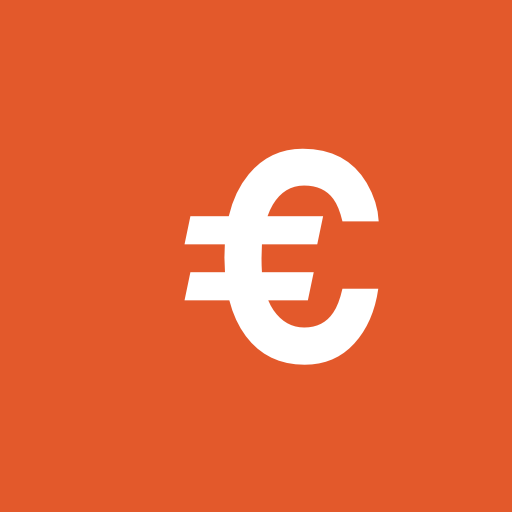
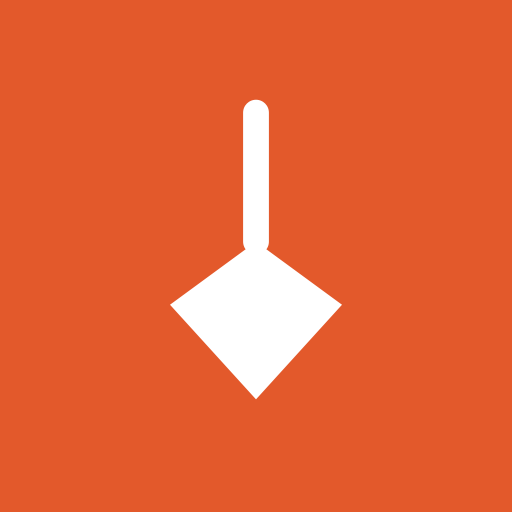
Renombrar el producto a Plomada
Presu ya existe: presu.app es un producto igual que este, para el mismo
publico y en el mismo pais. Se propuso ese nombre sin comprobarlo.

Se renombra ahora porque es el momento mas barato: no hay nada indexado, no
hay clientes, no se ha comprado dominio y la cuenta de Stripe ya se llamaba
PLOMADA. Comprobado que no hay nadie usando el nombre en este sector.

Lo que NO se ha renombrado, a proposito:

- Las claves de localStorage (presu.documentos.v2 y demas) y el marcador
  formato: "presu" de las copias de seguridad. Cambiarlas dejaria sin
  presupuestos a quien ya use la web y haria ilegibles las copias exportadas.
  El nombre de un producto cambia; los datos de la gente no se tiran por eso.
- El repositorio y la carpeta, que son cosmeticos y romperian el enlace con
  Netlify.

Ademas:

- El simbolo del euro pasa a ser una plomada, que es lo que ahora significa la
  marca. Regenerados favicon, iconos e imagen de compartir.
- La marca de agua del PDF calcula su tamano y su posicion: con el nombre
  nuevo, mas largo, se salia de la hoja por los dos lados. jsPDF no centra
  bien un texto girado, asi que el punto de inicio se calcula a mano.
- Fuera el sufijo del descriptor de extracto: la cuenta de Stripe ya se llama
  PLOMADA y el cliente veria "PLOMADA* PLOMADA".

Changed region(s): [[0.3125, 0.1875, 0.75, 0.7812]]

diff --git a/src/oficios.ts b/src/oficios.ts
@@ -55,7 +55,7 @@ export const OFICIOS: Oficio[] = [
     nombre: "Reformas",
     profesional: "reformista",
     emoji: "🧱",
-    titulo: "Modelo de presupuesto de reforma en PDF | Presu",
+    titulo: "Modelo de presupuesto de reforma en PDF | Plomada",
     descripcion:
       "Haz un presupuesto de reforma con partidas, medición, IVA desglosado y firma de aceptación. Se rellena en dos minutos y se descarga en PDF.",
     h1: "Presupuesto de reforma",
@@ -96,7 +96,7 @@ export const OFICIOS: Oficio[] = [
       {
         pregunta: "¿Debe firmar el cliente el presupuesto?",
         respuesta:
-          "No es obligatorio, pero un presupuesto aceptado por escrito es la mejor prueba de lo acordado si algo se discute después. Todos los presupuestos que genera Presu llevan un bloque de firma y fecha al final.",
+          "No es obligatorio, pero un presupuesto aceptado por escrito es la mejor prueba de lo acordado si algo se discute después. Todos los presupuestos que genera Plomada llevan un bloque de firma y fecha al final.",
       },
       {
         pregunta: "¿Puedo cobrar por hacer el presupuesto?",
@@ -167,7 +167,7 @@ export const OFICIOS: Oficio[] = [
     nombre: "Fontanería",
     profesional: "fontanero",
     emoji: "🔧",
-    titulo: "Presupuesto de fontanería en PDF, gratis | Presu",
+    titulo: "Presupuesto de fontanería en PDF, gratis | Plomada",
     descripcion:
       "Modelo de presupuesto de fontanería con mano de obra, materiales y desplazamiento. Rellénalo y descárgalo en PDF con tu logo.",
     h1: "Presupuesto de fontanería",
@@ -261,7 +261,7 @@ export const OFICIOS: Oficio[] = [
     nombre: "Electricidad",
     profesional: "electricista",
     emoji: "⚡",
-    titulo: "Presupuesto de electricista en PDF | Presu",
+    titulo: "Presupuesto de electricista en PDF | Plomada",
     descripcion:
       "Modelo de presupuesto para instalaciones eléctricas: puntos de luz, cuadro, mano de obra y boletín. Descarga en PDF con tu logo.",
     h1: "Presupuesto de electricista",
@@ -356,7 +356,7 @@ export const OFICIOS: Oficio[] = [
     nombre: "Pintura",
     profesional: "pintor",
     emoji: "🎨",
-    titulo: "Presupuesto de pintura por m² en PDF | Presu",
+    titulo: "Presupuesto de pintura por m² en PDF | Plomada",
     descripcion:
       "Modelo de presupuesto de pintura con metros cuadrados, manos de pintura, preparación y protección. Descárgalo en PDF.",
     h1: "Presupuesto de pintura",
@@ -450,7 +450,7 @@ export const OFICIOS: Oficio[] = [
     nombre: "Jardinería",
     profesional: "jardinero",
     emoji: "🌿",
-    titulo: "Presupuesto de jardinería en PDF | Presu",
+    titulo: "Presupuesto de jardinería en PDF | Plomada",
     descripcion:
       "Modelo de presupuesto de jardinería para podas, mantenimiento y diseño de jardín, con opción de cuota mensual. Descarga en PDF.",
     h1: "Presupuesto de jardinería",
@@ -545,7 +545,7 @@ export const OFICIOS: Oficio[] = [
     nombre: "Carpintería",
     profesional: "carpintero",
     emoji: "🪵",
-    titulo: "Presupuesto de carpintería a medida en PDF | Presu",
+    titulo: "Presupuesto de carpintería a medida en PDF | Plomada",
     descripcion:
       "Modelo de presupuesto de carpintería y muebles a medida con materiales, herrajes, montaje y anticipo. Descarga en PDF.",
     h1: "Presupuesto de carpintería",
@@ -640,7 +640,7 @@ export const OFICIOS: Oficio[] = [
     nombre: "Albañilería",
     profesional: "albañil",
     emoji: "🧱",
-    titulo: "Presupuesto de albañilería en PDF | Presu",
+    titulo: "Presupuesto de albañilería en PDF | Plomada",
     descripcion:
       "Modelo de presupuesto de albañilería con mediciones, material, andamios y retirada de escombro. Descárgalo en PDF con tu logo.",
     h1: "Presupuesto de albañilería",
@@ -736,7 +736,7 @@ export const OFICIOS: Oficio[] = [
     nombre: "Climatización",
     profesional: "instalador",
     emoji: "❄",
-    titulo: "Presupuesto de aire acondicionado en PDF | Presu",
+    titulo: "Presupuesto de aire acondicionado en PDF | Plomada",
     descripcion:
       "Modelo de presupuesto de climatización: equipo, instalación, material frigorífico y puesta en marcha. Descárgalo en PDF.",
     h1: "Presupuesto de climatización",
@@ -831,7 +831,7 @@ export const OFICIOS: Oficio[] = [
     nombre: "Cerrajería",
     profesional: "cerrajero",
     emoji: "🔐",
-    titulo: "Presupuesto de cerrajería en PDF | Presu",
+    titulo: "Presupuesto de cerrajería en PDF | Plomada",
     descripcion:
       "Modelo de presupuesto de cerrajería para puertas, rejas y cierres, con material, mano de obra y desplazamiento. Descárgalo en PDF.",
     h1: "Presupuesto de cerrajería",
@@ -927,7 +927,7 @@ export const OFICIOS: Oficio[] = [
     nombre: "Mudanzas",
     profesional: "transportista",
     emoji: "📦",
-    titulo: "Presupuesto de mudanza en PDF | Presu",
+    titulo: "Presupuesto de mudanza en PDF | Plomada",
     descripcion:
       "Modelo de presupuesto de mudanza con embalaje, portes, mano de obra y seguro. Rellénalo y descárgalo en PDF.",
     h1: "Presupuesto de mudanza",
@@ -1022,7 +1022,7 @@ export const OFICIOS: Oficio[] = [
     nombre: "Limpieza",
     profesional: "profesional de la limpieza",
     emoji: "🧽",
-    titulo: "Presupuesto de limpieza en PDF | Presu",
+    titulo: "Presupuesto de limpieza en PDF | Plomada",
     descripcion:
       "Modelo de presupuesto de limpieza para fin de obra, comunidades y oficinas, con cuota mensual o servicio puntual. Descárgalo en PDF.",
     h1: "Presupuesto de limpieza",
@@ -1117,7 +1117,7 @@ export const OFICIOS: Oficio[] = [
     nombre: "Fotografía",
     profesional: "fotógrafo",
     emoji: "📷",
-    titulo: "Presupuesto de fotografía en PDF | Presu",
+    titulo: "Presupuesto de fotografía en PDF | Plomada",
     descripcion:
       "Modelo de presupuesto para fotógrafos: sesión, edición, entrega y cesión de derechos, con retención de IRPF. Descarga en PDF.",
     h1: "Presupuesto de fotografía",
@@ -1212,7 +1212,7 @@ export const OFICIOS: Oficio[] = [
     nombre: "Diseño web",
     profesional: "diseñador",
     emoji: "💻",
-    titulo: "Presupuesto de diseño web en PDF | Presu",
+    titulo: "Presupuesto de diseño web en PDF | Plomada",
     descripcion:
       "Modelo de presupuesto de diseño y desarrollo web con fases, rondas de revisión, mantenimiento y retención de IRPF. Descarga en PDF.",
     h1: "Presupuesto de diseño web",

diff --git a/src/guias.ts b/src/guias.ts
@@ -40,7 +40,7 @@ const AVISO_FISCAL =
 export const GUIAS: Guia[] = [
   {
     slug: "iva-reformas-10-o-21",
-    titulo: "IVA en reformas: cuándo es el 10 % y cuándo el 21 % | Presu",
+    titulo: "IVA en reformas: cuándo es el 10 % y cuándo el 21 % | Plomada",
     descripcion:
       "Los tres requisitos para aplicar el IVA reducido del 10 % en obras de reforma en viviendas, y qué pasa con el límite del 40 % en materiales.",
     h1: "IVA en reformas: 10 % o 21 %",
@@ -120,7 +120,7 @@ export const GUIAS: Guia[] = [
   },
   {
     slug: "retencion-irpf-autonomos",
-    titulo: "Retención de IRPF: cuándo se aplica y cuánto | Presu",
+    titulo: "Retención de IRPF: cuándo se aplica y cuánto | Plomada",
     descripcion:
       "Cuándo lleva retención de IRPF tu factura, la diferencia entre el 15 % y el 7 % de nuevo autónomo, y por qué a un cliente particular nunca se le retiene.",
     h1: "Retención de IRPF para autónomos",
@@ -199,7 +199,7 @@ export const GUIAS: Guia[] = [
   },
   {
     slug: "como-hacer-un-presupuesto",
-    titulo: "Cómo hacer un presupuesto profesional paso a paso | Presu",
+    titulo: "Cómo hacer un presupuesto profesional paso a paso | Plomada",
     descripcion:
       "Qué datos lleva un presupuesto, cómo describir las partidas para que no haya discusiones, y qué cláusulas evitan los problemas más habituales.",
     h1: "Cómo hacer un presupuesto",
@@ -255,7 +255,7 @@ export const GUIAS: Guia[] = [
         titulo: "Mándalo rápido",
         parrafos: [
           "En trabajos de oficio, la velocidad de respuesta compite con el precio. El cliente que pide tres presupuestos suele quedarse con el primero que llega bien hecho, porque el que responde rápido transmite que trabajará igual.",
-          "Es la razón de que exista Presu: si el presupuesto se puede terminar y enviar desde el móvil antes de salir de casa del cliente, el trabajo ya es casi tuyo.",
+          "Es la razón de que exista Plomada: si el presupuesto se puede terminar y enviar desde el móvil antes de salir de casa del cliente, el trabajo ya es casi tuyo.",
         ],
       },
     ],
@@ -278,7 +278,7 @@ export const GUIAS: Guia[] = [
       {
         pregunta: "¿Es lo mismo un presupuesto que una factura?",
         respuesta:
-          "No. El presupuesto es una oferta de precio y no tiene efectos fiscales. La factura documenta una operación ya realizada y está sujeta a la normativa de facturación. Presu genera presupuestos, no facturas.",
+          "No. El presupuesto es una oferta de precio y no tiene efectos fiscales. La factura documenta una operación ya realizada y está sujeta a la normativa de facturación. Plomada genera presupuestos, no facturas.",
       },
     ],
     oficios: ["reformas", "fontaneria", "electricidad", "pintura", "carpinteria"],

diff --git a/src/pdf.ts b/src/pdf.ts
@@ -17,6 +17,10 @@ const ALTO = 297;
 const MARGEN = 18;
 const DERECHA = ANCHO - MARGEN;
 
+/** Nombre de la marca. En un solo sitio: al renombrar el producto solo se toca aquí. */
+const NOMBRE = "Plomada";
+const TAMANO_MARCA = 46;
+
 const COL_CANTIDAD = 138;
 const COL_PRECIO = 158;
 const COL_IVA = 170;
@@ -515,14 +519,29 @@ export async function generarPdf(
     texto(`${pagina} / ${paginas}`, DERECHA, ALTO - 11, { size: 7.5, color: GRIS, align: "right" });
 
     if (conMarcaDeAgua) {
+      // El tamaño y la posición se calculan, no se fijan. jsPDF no centra bien
+      // un texto girado, así que se mide el ancho real, se encoge para que la
+      // diagonal quepa en la hoja y se coloca el punto de inicio a mano para
+      // que el centro del texto caiga en el centro de la página.
+      const marca = `${NOMBRE.toUpperCase()} · VERSIÓN GRATUITA`;
+      const radianes = (32 * Math.PI) / 180;
+
       doc.setFont(estilo.fuente, "bold");
-      doc.setFontSize(46);
+      doc.setFontSize(TAMANO_MARCA);
+      const anchoBase = doc.getTextWidth(marca);
+      const cabe = (ANCHO - 24) / Math.cos(radianes);
+      const tamano = anchoBase > cabe ? TAMANO_MARCA * (cabe / anchoBase) : TAMANO_MARCA;
+
+      doc.setFontSize(tamano);
+      const largo = doc.getTextWidth(marca);
       doc.setTextColor(LINEA[0], LINEA[1], LINEA[2]);
-      doc.text("PRESU · VERSIÓN GRATUITA", ANCHO / 2, ALTO / 2, {
-        align: "center",
-        angle: 32,
-      });
-      texto(dominio ? `Creado con Presu · ${dominio}` : "Creado con Presu", ANCHO / 2, ALTO - 6, {
+      doc.text(
+        marca,
+        ANCHO / 2 - (largo * Math.cos(radianes)) / 2,
+        ALTO / 2 + (largo * Math.sin(radianes)) / 2,
+        { angle: 32 },
+      );
+      texto(dominio ? `Creado con ${NOMBRE} · ${dominio}` : `Creado con ${NOMBRE}`, ANCHO / 2, ALTO - 6, {
         size: 7.5,
         color: GRIS,
         align: "center",

diff --git a/src/contenido.ts b/src/contenido.ts
@@ -5,7 +5,7 @@
  */
 
 export const SITIO = {
-  nombre: "Presu",
+  nombre: "Plomada",
   /**
    * Solo se usa como valor por defecto del generador de páginas estáticas.
    * En producción manda la variable de entorno SITE_URL, y dentro de la
@@ -50,7 +50,7 @@ export const CLAVES = [
   {
     titulo: "IVA desglosado por tipo",
     texto:
-      "Si mezclas partidas al 21 % y al 10 %, el desglose tiene que aparecer por separado. Presu lo agrupa y lo calcula solo.",
+      "Si mezclas partidas al 21 % y al 10 %, el desglose tiene que aparecer por separado. Plomada lo agrupa y lo calcula solo.",
   },
   {
     titulo: "Fecha de validez",
@@ -65,7 +65,7 @@ export const CLAVES = [
   {
     titulo: "Espacio para la firma",
     texto:
-      "Un presupuesto firmado es la mejor prueba de lo acordado. Todos los que genera Presu llevan el bloque de aceptación al final.",
+      "Un presupuesto firmado es la mejor prueba de lo acordado. Todos los que genera Plomada llevan el bloque de aceptación al final.",
   },
 ];
 
@@ -88,7 +88,7 @@ export const FAQ = [
   {
     pregunta: "¿Un presupuesto es lo mismo que una factura?",
     respuesta:
-      "No. El presupuesto es una oferta de precio y no tiene efectos fiscales; la factura documenta una operación ya realizada y está sujeta a la normativa de facturación. Presu genera presupuestos, no facturas.",
+      "No. El presupuesto es una oferta de precio y no tiene efectos fiscales; la factura documenta una operación ya realizada y está sujeta a la normativa de facturación. Plomada genera presupuestos, no facturas.",
   },
   {
     pregunta: "¿Puedo poner mi logotipo?",

diff --git a/src/storage.ts b/src/storage.ts
@@ -1,6 +1,12 @@
 import { presupuestoVacio } from "./types";
 import type { Cliente, Emisor, Presupuesto } from "./types";
 
+/**
+ * Las claves conservan el prefijo `presu` de cuando el producto se llamaba así.
+ * Renombrarlas dejaría sin presupuestos a todo el que ya hubiera usado la web,
+ * y el marcador `formato: "presu"` haría ilegibles las copias ya exportadas.
+ * El nombre de un producto cambia; los datos de la gente no se tiran por eso.
+ */
 const CLAVE_DOCUMENTOS = "presu.documentos.v2";
 const CLAVE_ACTUAL = "presu.actual.v2";
 const CLAVE_EMISOR = "presu.emisor.v2";
@@ -209,11 +215,11 @@ export function importarCopia(json: string): ResultadoImportacion {
   try {
     copia = JSON.parse(json) as Partial<Copia>;
   } catch {
-    throw new Error("El archivo no es una copia de Presu válida.");
+    throw new Error("El archivo no es una copia de Plomada válida.");
   }
 
   if (copia.formato !== "presu" || !Array.isArray(copia.presupuestos)) {
-    throw new Error("El archivo no es una copia de Presu válida.");
+    throw new Error("El archivo no es una copia de Plomada válida.");
   }
 
   const actuales = new Map(cargarDocumentos().map((d) => [d.id, d]));
@@ -244,7 +250,7 @@ export function importarCopia(json: string): ResultadoImportacion {
 }
 
 export function nombreArchivoCopia(): string {
-  return `presu-copia-${new Date().toISOString().slice(0, 10)}.json`;
+  return `plomada-copia-${new Date().toISOString().slice(0, 10)}.json`;
 }
 
 export function duplicar(presupuesto: Presupuesto, documentos: Presupuesto[]): Presupuesto {

diff --git a/src/components/Contenido.tsx b/src/components/Contenido.tsx
@@ -15,7 +15,7 @@ export function Contenido() {
           <section>
             <h2>Cómo hacer un presupuesto en dos minutos</h2>
             <p>
-              Presu es una herramienta para autónomos y gremios que necesitan
+              Plomada es una herramienta para autónomos y gremios que necesitan
               mandar un presupuesto con buena pinta sin pelearse con el Word ni
               pagar un programa de facturación entero. Se rellena arriba, se ve
               el resultado en vivo y se descarga en PDF.
@@ -97,7 +97,7 @@ export function Contenido() {
 
       <footer className="pie">
         <div className="pie__interior">
-          <strong style={{ color: "var(--tinta)" }}>Presu</strong>
+          <strong style={{ color: "var(--tinta)" }}>Plomada</strong>
           <span>Presupuestos en PDF para autónomos y gremios.</span>
           <span style={{ marginLeft: "auto", display: "flex", gap: 16 }}>
             <a href="/guias/">Guías</a>

diff --git a/src/App.tsx b/src/App.tsx
@@ -334,8 +334,19 @@ export default function App() {
     <div className="app">
       <header className="barra">
         <div className="marca">
-          <span className="marca__punto">€</span>
-          <span className="marca__texto">Presu</span>
+          <span className="marca__punto" aria-hidden="true">
+            <svg viewBox="0 0 24 24" width="15" height="15">
+              <path
+                d="M12 3v8"
+                stroke="currentColor"
+                strokeWidth="2.2"
+                strokeLinecap="round"
+                fill="none"
+              />
+              <path d="M12 9.5l4 6-4 6-4-6z" fill="currentColor" />
+            </svg>
+          </span>
+          <span className="marca__texto">Plomada</span>
         </div>
         <span className="barra__estado">{estado}</span>
         <div className="barra__acciones">

diff --git a/index.html b/index.html
@@ -3,7 +3,7 @@
   <head>
     <meta charset="UTF-8" />
     <meta name="viewport" content="width=device-width, initial-scale=1.0" />
-    <title>Presu · Haz un presupuesto profesional en PDF en 2 minutos</title>
+    <title>Plomada · Haz un presupuesto profesional en PDF en 2 minutos</title>
     <meta
       name="description"
       content="Crea presupuestos en PDF con tu logo, IVA desglosado y retención de IRPF. Sin registro. Para autónomos, reformas, fontanería, electricidad y oficios."

diff --git a/src/components/Vista.tsx b/src/components/Vista.tsx
@@ -47,7 +47,7 @@ export function Vista({ presupuesto: p, conMarcaDeAgua }: VistaProps) {
 
       {conMarcaDeAgua && (
         <div className="hoja__marca" aria-hidden="true">
-          <span>PRESU · VERSIÓN GRATUITA</span>
+          <span>PLOMADA · VERSIÓN GRATUITA</span>
         </div>
       )}
 

diff --git a/README.md b/README.md
@@ -1,4 +1,4 @@
-# Presu
+# Plomada
 
 Herramienta web para hacer presupuestos profesionales en PDF. Entras, rellenas,
 ves el resultado en vivo y descargas. Sin registro.
